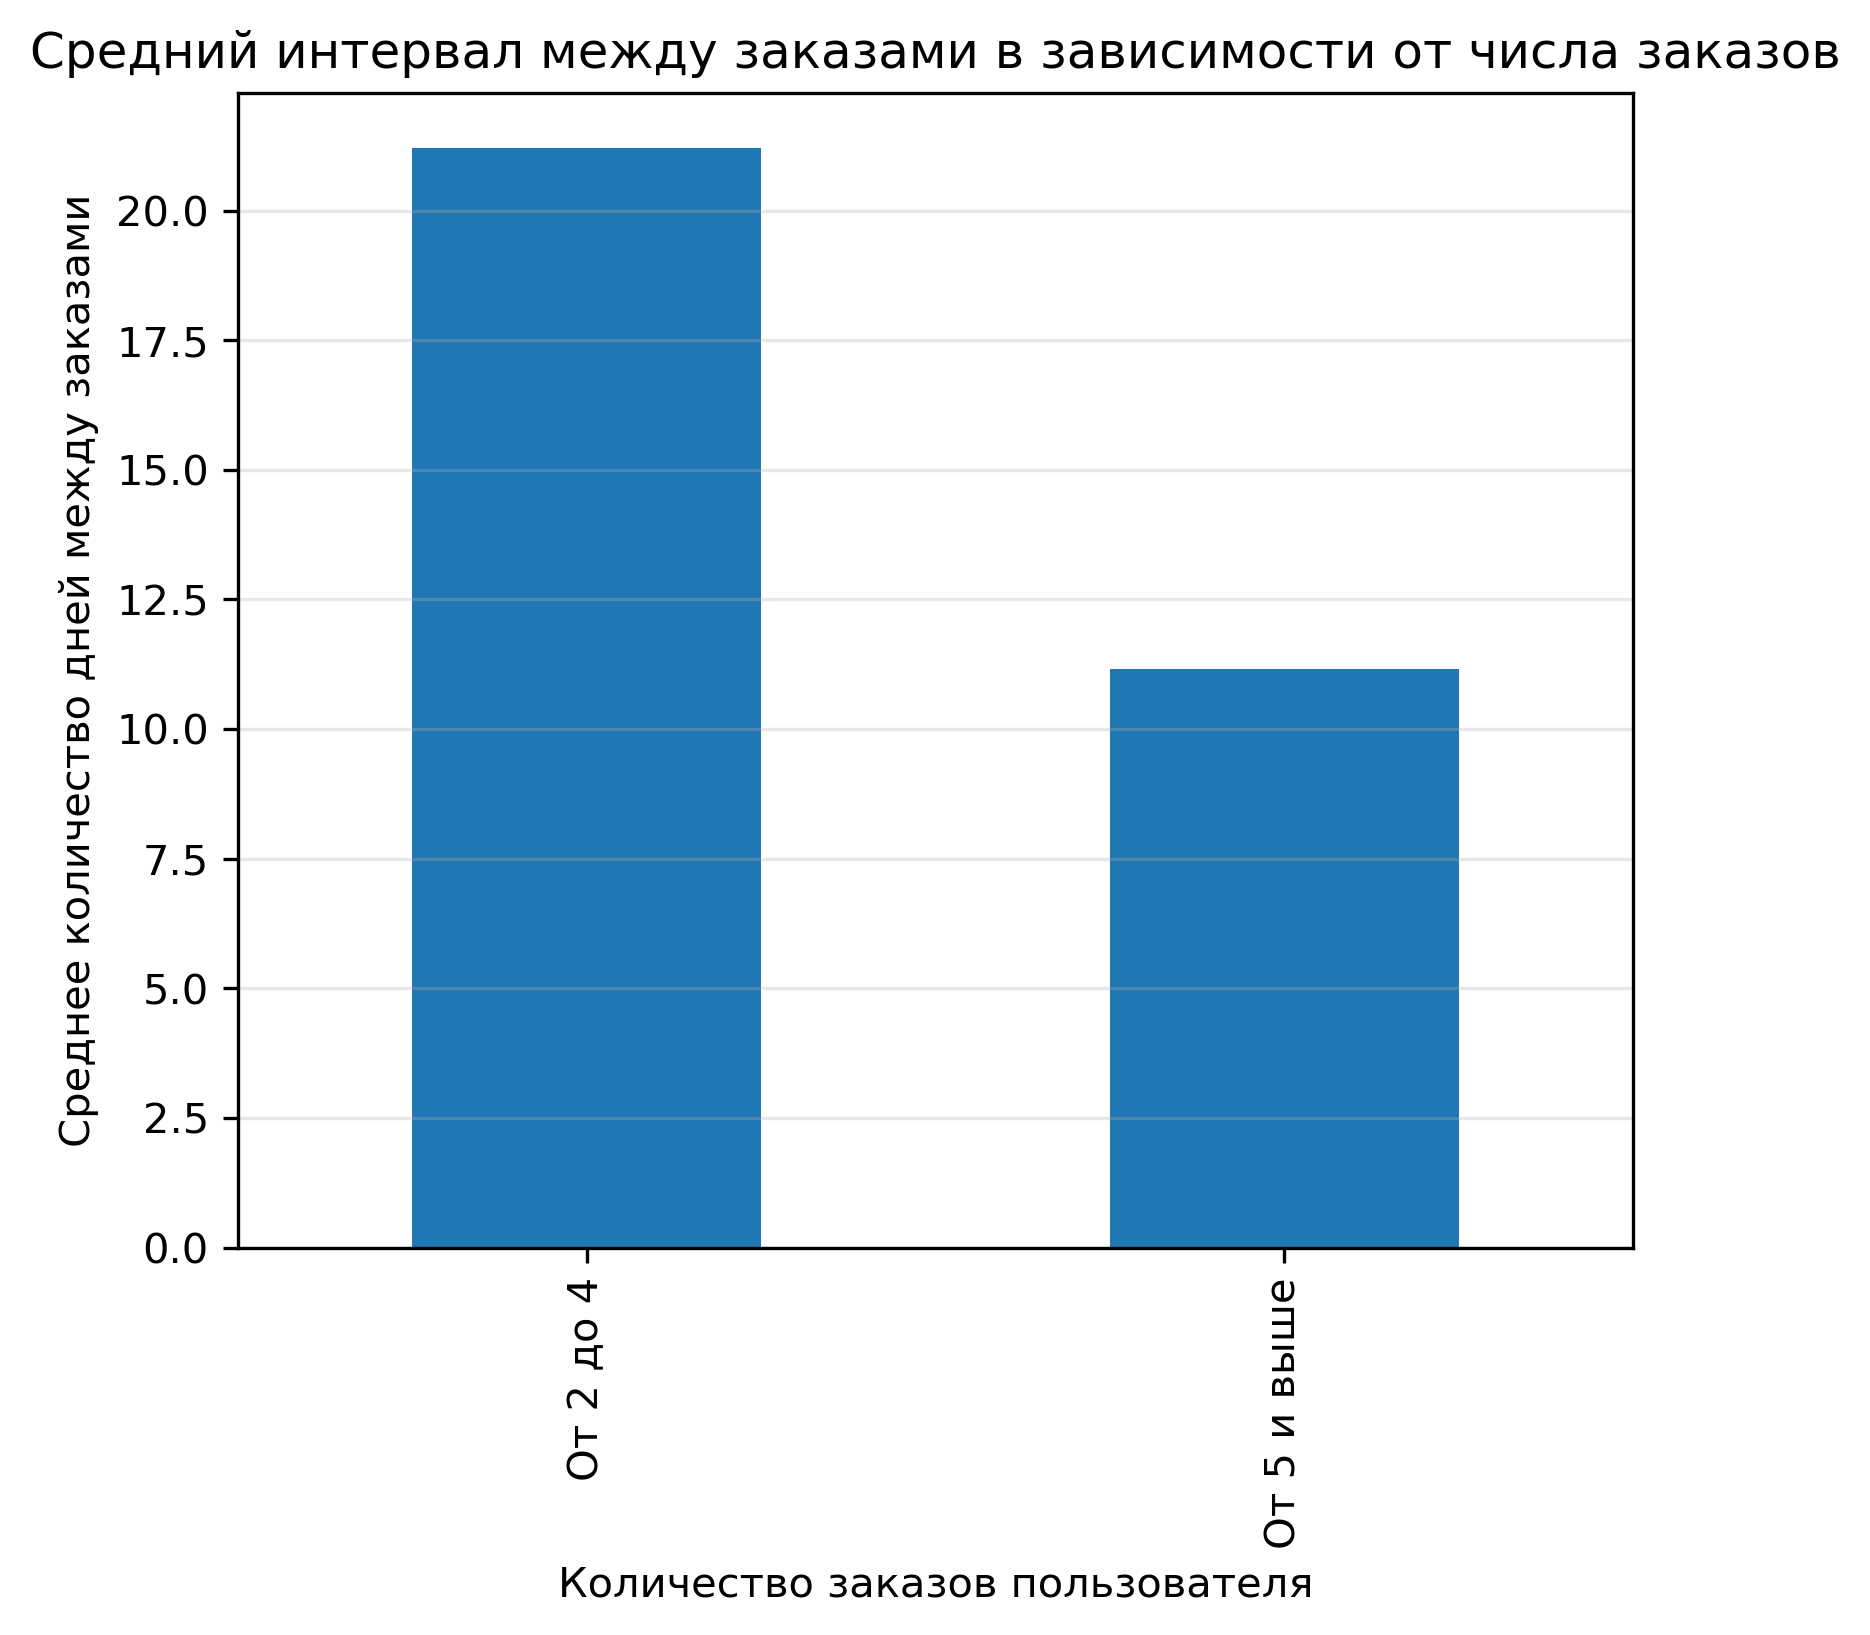
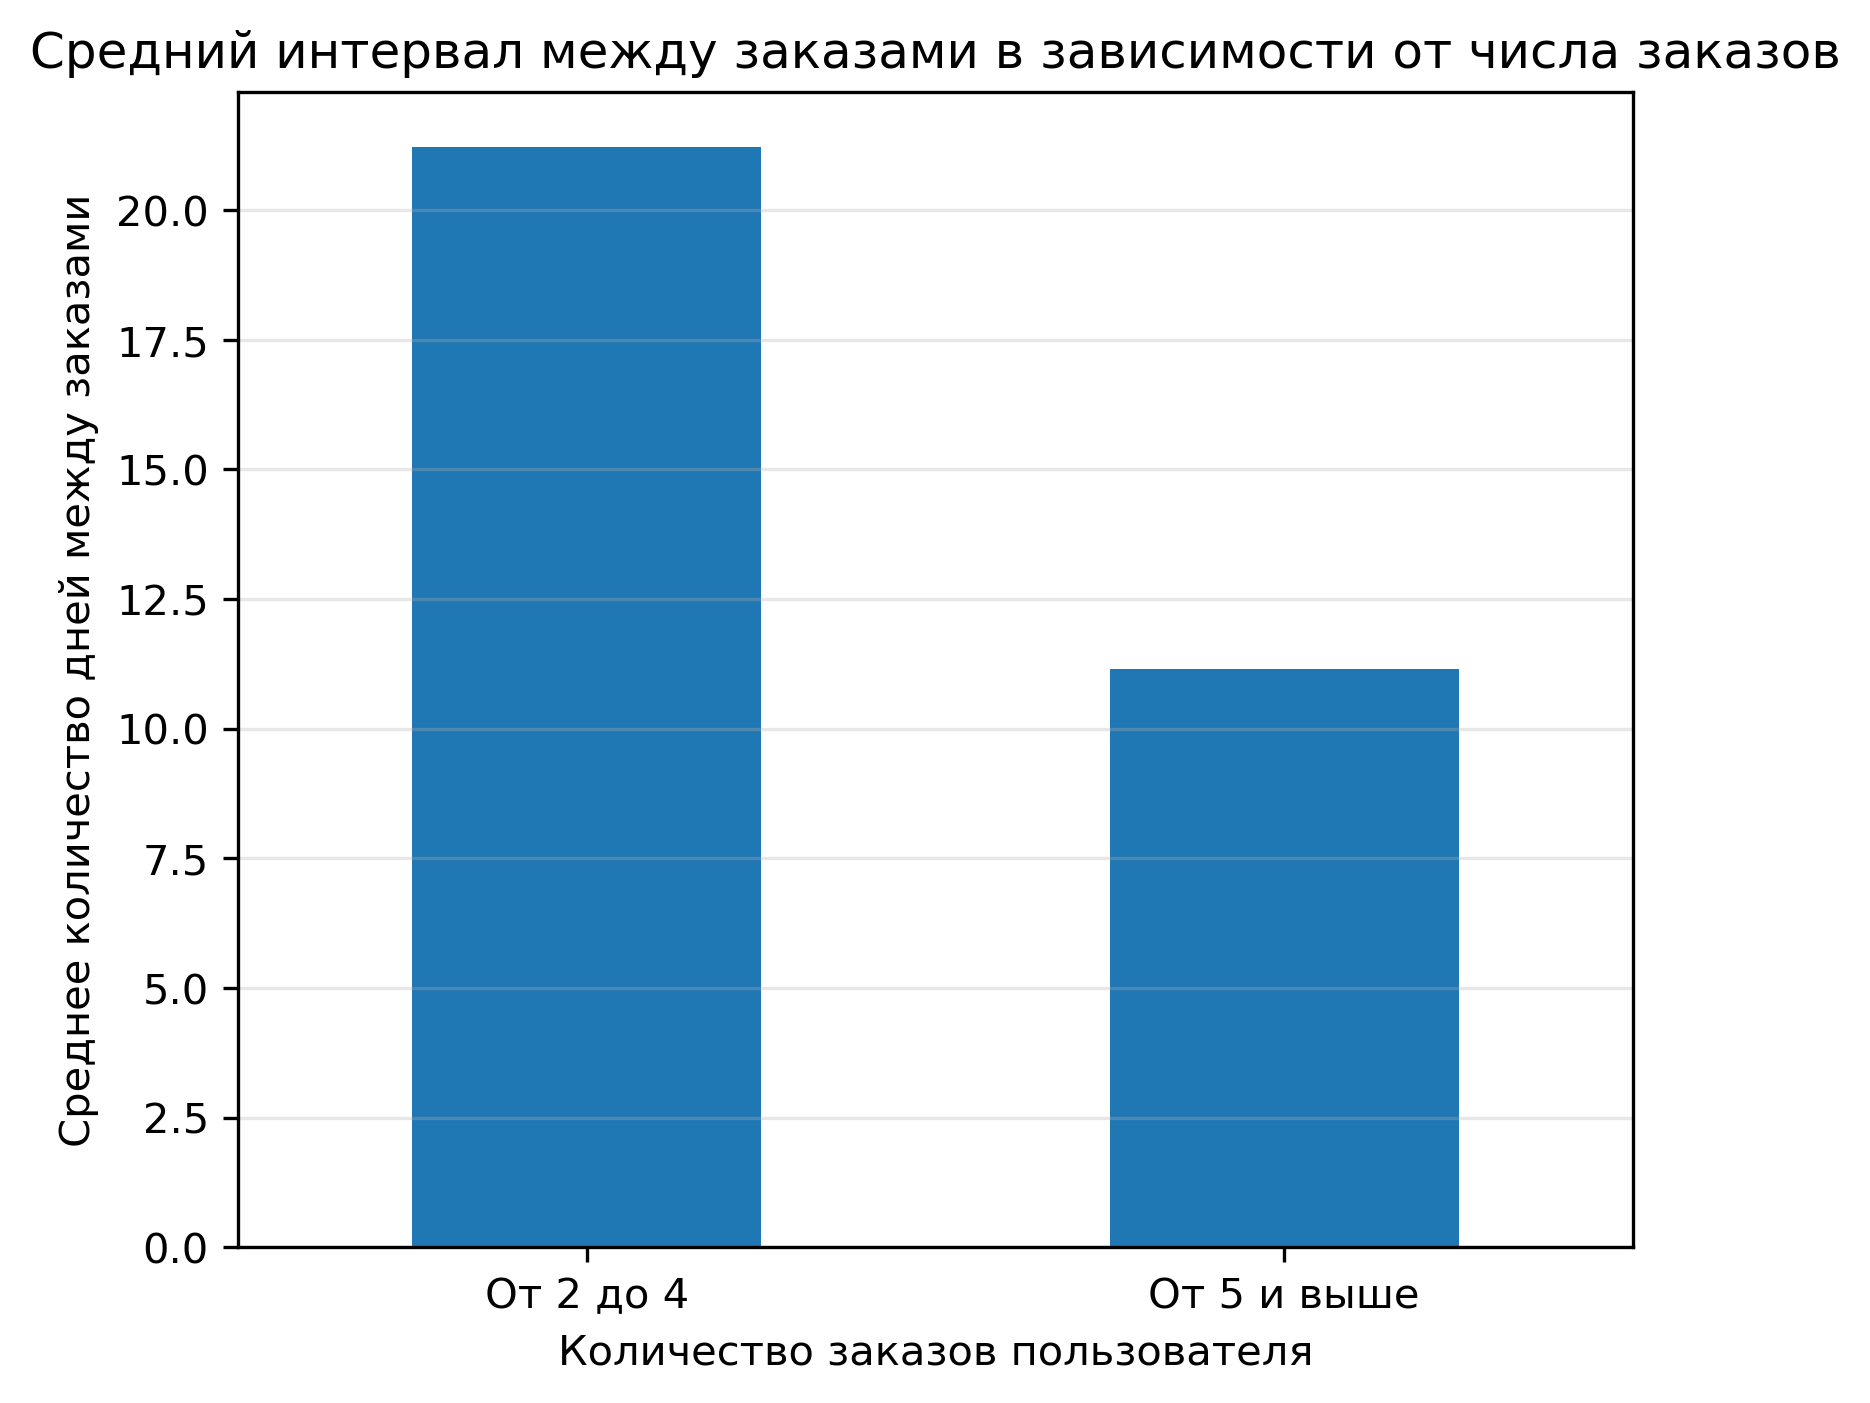
correct readme

diff --git a/README.md b/README.md
@@ -84,7 +84,7 @@ jupyter notebook
 
 ## Ключевые графики
 
-<img src="images/avg_tickets_count.png" alt="График" width="52%"> <img src="images/avg_days_by_orders.png" alt="График" width="46%">
+<img src="images/avg_tickets_count.png" alt="График" width="47.5%"><img src="images/avg_days_by_orders.png" alt="График" width="52.5%">
 
 
 ## Автор
